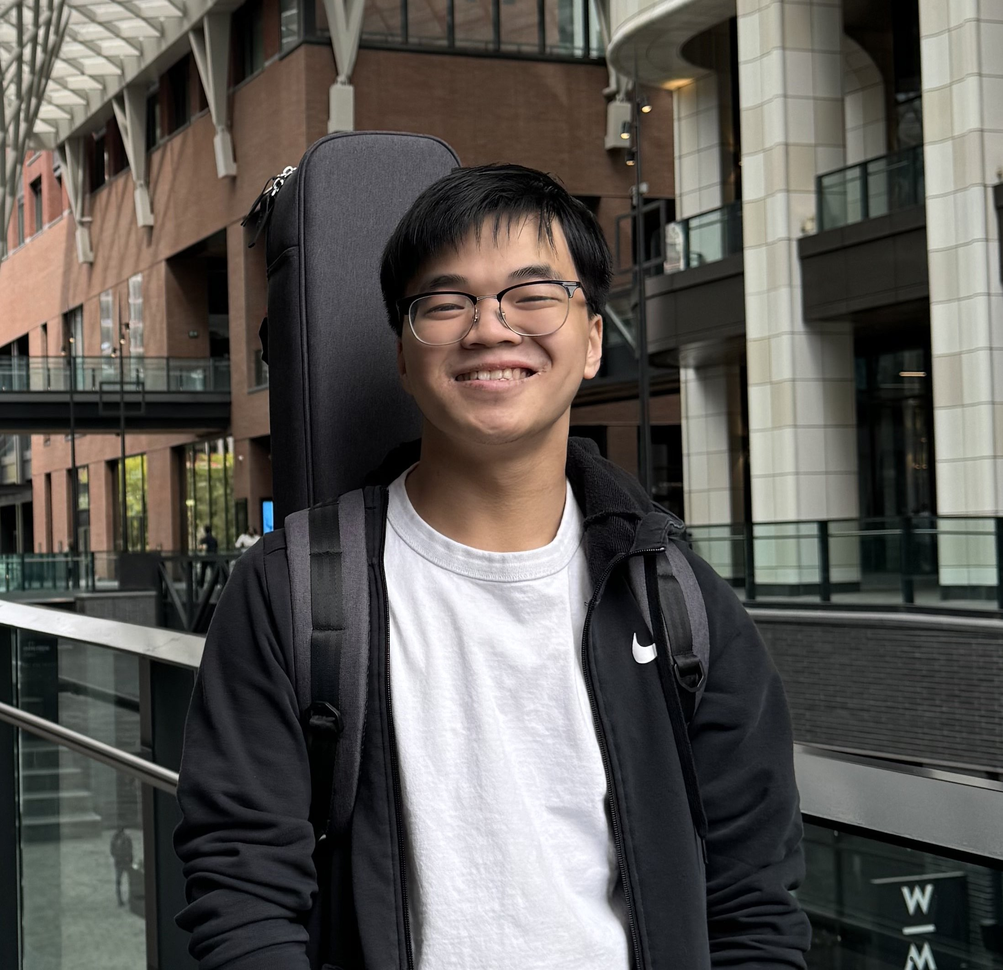
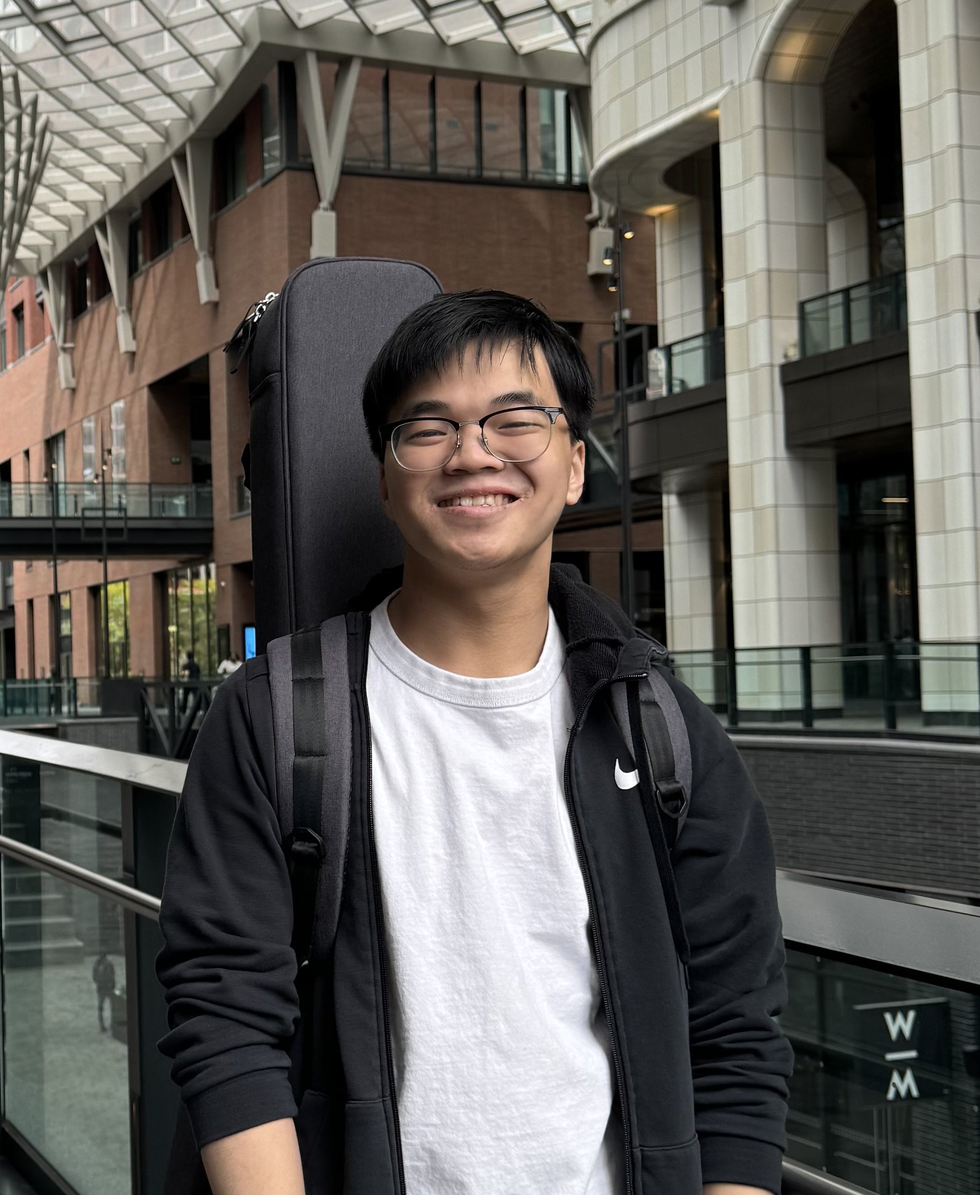
updated picture

diff --git a/src/components/Hero.jsx b/src/components/Hero.jsx
@@ -1,5 +1,5 @@
 import { FaLinkedin, FaGithub } from "react-icons/fa";
-import me from "../assets/me.jpg";
+import picture from "../assets/picture.jpg";
 
 function Hero() {
   return (
@@ -71,7 +71,7 @@ function Hero() {
         {/* RIGHT */}
         <div className="slide-in-right">
           <img
-            src={me}
+            src={picture}
             alt="Daniel Zhu"
             className="
               w-full max-w-[500px]
